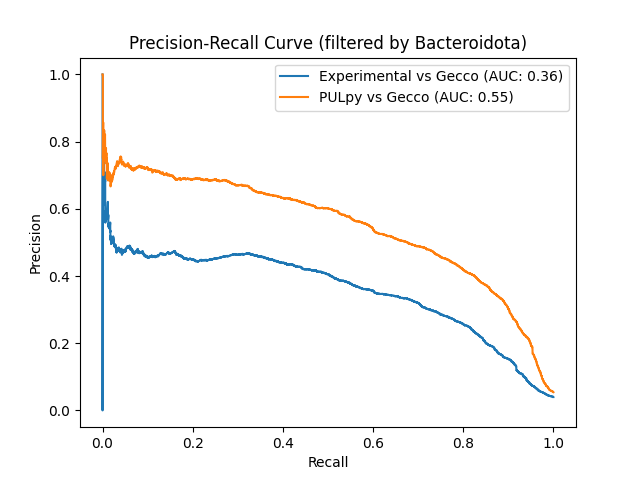
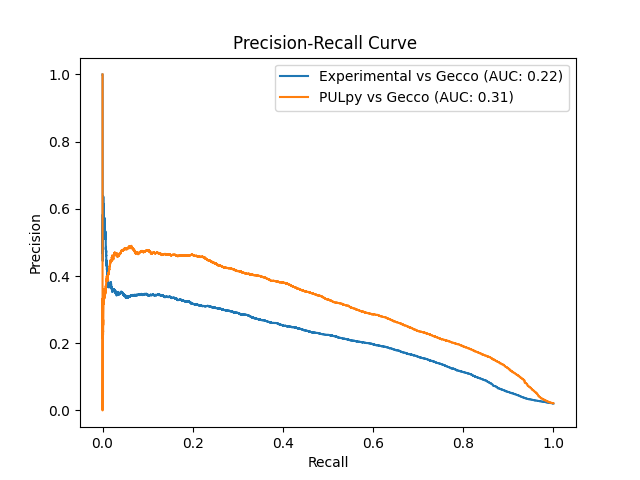
adapt evaluator to handle cross-val

diff --git a/src/scripts/gecco.py b/src/scripts/gecco.py
@@ -4,6 +4,7 @@ import os
 from pathlib import Path
 import urllib.request
 import tempfile
+import argparse
 from utility_scripts import join_gene_and_PUL_table
 from sklearn.metrics import classification_report, confusion_matrix, precision_recall_fscore_support
 
@@ -60,6 +61,7 @@ class GECCOHandler:
         print(f"Starting prediction for genome {Path(genome_path).stem}...")
         # check output path
         if os.path.exists(output_path):
+            print(f"Predictions for genome {Path(genome_path).stem} already exist, skipping prediction.\n")
             return
 
         # gecco run --model model --hmm Pfam35.hmm.gz --genome genome.fa -o ./predictions/
@@ -70,6 +72,7 @@ class GECCOHandler:
     def _evaluate(self, predictions_path, fold, test_clusters):
         pred_clusters = []
         pred_genes = []
+        # collect all predicted clusters and genes from the predictions directory
         for output_dir in os.listdir(predictions_path):
             for output_file in os.listdir(os.path.join(predictions_path, output_dir)):
                 if output_file.endswith(".clusters.tsv"):
@@ -79,6 +82,7 @@ class GECCOHandler:
                     pred_path = os.path.join(predictions_path, output_dir, output_file)
                     pred_genes.append(polars.read_csv(pred_path, separator='\t'))
 
+        # concat both into single tables, remove version num from sequence_id
         pred_clusters = polars.concat(pred_clusters).with_columns(
             polars.col("sequence_id").map_elements(lambda x: x.split('.')[0]).alias("sequence_id")
         )
@@ -91,13 +95,15 @@ class GECCOHandler:
         print(f"Total predicted clusters: {pred_clusters.shape[0]}")
         print(f"Total test clusters: {test_clusters.shape[0]}")
 
-        # get all genes of test set
+        # get all genes in test set
         test_genes = (pred_genes.join(test_clusters, on="sequence_id", how="semi"))
-        # label test genes
+
+        # join genes with test clusters and predicted clusters
         cols = ["protein_id", "sequence_id", "cluster_id", "is_PUL", "start", "end"]
-        labeled_test_genes = join_gene_and_PUL_table(test_genes, test_clusters).select(cols)
+        labeled_test_genes = join_gene_and_PUL_table(test_genes, test_clusters).select(cols) 
         labeled_prediction_genes = join_gene_and_PUL_table(test_genes, pred_clusters).select(cols)
-        # join predicted clusters with test clusters
+
+        # join gene tables of predicted clusters with test clusters
         labeled_table = (
             labeled_test_genes
             .join(labeled_prediction_genes, on="protein_id", how="full", suffix="_pred")
@@ -105,7 +111,7 @@ class GECCOHandler:
                 polars.when(polars.col("is_PUL").is_null()).then(False).otherwise(polars.col("is_PUL")).alias("is_PUL"),
                 polars.when(polars.col("is_PUL_pred").is_null()).then(False).otherwise(polars.col("is_PUL_pred")).alias("is_PUL_pred"),
             )
-            .join(test_genes.select("protein_id", "average_p"), on="protein_id", how="left")
+            .join(test_genes.select("protein_id", "average_p"), on="protein_id", how="left") # add predicted probability for each gene (for PR curve)
             .sort("protein_id")
             .sort("sequence_id")
         )
@@ -122,7 +128,8 @@ class GECCOHandler:
         return temp_file
 
 
-    def run_fold(self, train_clusters, test_clusters, fold):
+    def run_fold(self, fold):
+        train_clusters, test_clusters = self.get_training_data(fold)
         model_path = f"{self.output_dir}/model_{fold}"
         # filter gene and feature tables to only include genes in training set
         train_genes = polars.read_csv(train_clusters, separator='\t').select("sequence_id").unique()
@@ -146,28 +153,37 @@ class GECCOHandler:
         # get the training data for this fold, which is all clusters that are not in the test set
         test_clusters = f"{self.clusters_dir}/test_fold_{fold}.tsv"
         train_clusters = f"{self.clusters_dir}/train_fold_{fold}.tsv"
-
-        # adapt train clusters to fit gecco input format
-        train_clusters_df = polars.read_csv(train_clusters, separator='\t').select("sequence_id", "cluster_id", "start", "end")
         return train_clusters, test_clusters
 
 
     def run_cross_validation(self, k):
         for fold in range(k):
             print(f"Running fold {fold}...")
-            train_clusters, test_clusters = self.get_training_data(fold)
-            results = self.run_fold(train_clusters, test_clusters, fold)
+            results = self.run_fold(fold)
 
 
 def main():
+    parser = argparse.ArgumentParser(description="Run GECCO cross-validation")
+    parser.add_argument("--genes", type=str, default="src/data/genecat_output/genome.genes.parquet", help="Path to genes table")
+    parser.add_argument("--features", type=str, default="src/data/genecat_output/genome.features.parquet", help="Path to features table")
+    parser.add_argument("--clusters_dir", type=str, default="src/data/splits", help="Directory containing train/test cluster splits")
+    parser.add_argument("--output_dir", type=str, default="src/data/results/gecco", help="Directory to save results")
+    parser.add_argument("--hmms", type=str, default="src/data/hmms/Pfam35.hmm.gz", help="Path to HMM file (will be downloaded if not found)")
+    parser.add_argument("-k", type=int, default=5, help="Number of folds for cross-validation")
+    parser.add_argument("--run_fold", type=int, help="Run a specific fold instead of cross-validation")
+    args = parser.parse_args()
+
     handler = GECCOHandler(
-        genes="src/data/genecat_output/genome.genes.parquet",
-        features="src/data/genecat_output/genome.features.parquet",
-        clusters_dir="src/data/splits",
-        output_dir="src/data/results/gecco",
-        hmms="src/data/hmms/Pfam35.hmm.gz" # make sure hmms are downloaded and path is correct
+        genes=args.genes,
+        features=args.features,
+        clusters_dir=args.clusters_dir,
+        output_dir=args.output_dir,
+        hmms=args.hmms
     )
-    handler.run_cross_validation(k=5)
+    if args.run_fold is not None:
+        handler.run_fold(args.run_fold)
+    else:
+        handler.run_cross_validation(k=args.k)
 
 
 if __name__ == "__main__":

diff --git a/src/scripts/evaluate_predictions.py b/src/scripts/evaluate_predictions.py
@@ -7,13 +7,23 @@ import seaborn as sns
 from utility_scripts import join_gene_and_PUL_table
 
 class PredictionEvaluator:
-    def __init__(self, labeled_results_path, predicted_genes_path, clusters_table_path, pulpy_annotations_path):
-        self.predicted_genes = polars.read_csv(predicted_genes_path, separator='\t')
+    """
+    Evaluator class for evaluating the predictions of GECCO against experimental data and PULpy annotations.
+    Currently aggregates predictions across all folds.
+    """
+
+    def __init__(self, labeled_results_path, clusters_table_path, pulpy_annotations_path):
+        labeled_results_list = []
+        for i in range(5):
+            labeled_results = polars.read_csv(f"{labeled_results_path}_{i}.tsv", separator='\t')
+            labeled_results_list.append(labeled_results)
+
+        self.labeled_results = polars.concat(labeled_results_list)
         self.clusters_table = polars.read_csv(clusters_table_path, separator='\t', infer_schema_length=600)
-        self.labeled_results = polars.read_csv(labeled_results_path, separator='\t')
         self.get_pulpy_annotations(pulpy_annotations_path)
         self.set_evaluation_data()
         self.filter = None
+
 
     def set_evaluation_data(self):
         self.true = self.labeled_results.select(polars.col("is_PUL")).fill_null(False).to_series().to_list()
@@ -29,7 +39,7 @@ class PredictionEvaluator:
             .rename({"genome": "sequence_id", "pulid": "cluster_id"})
         )
         pulpy_annotations = (
-            join_gene_and_PUL_table(self.predicted_genes, pulpy_annotations)
+            join_gene_and_PUL_table(self.labeled_results, pulpy_annotations)
             .select("protein_id", "is_PUL", "cluster_id").rename({"is_PUL": "is_PUL_pulpy", "cluster_id": "cluster_id_pulpy"})
         )
         self.labeled_results = self.labeled_results.join(
@@ -51,7 +61,7 @@ class PredictionEvaluator:
         )
         self.set_evaluation_data()
         self.filter = phylum
-        
+
     
     def confusion_matrix(self):
         cm = confusion_matrix(self.true, self.pred)
@@ -85,7 +95,7 @@ class PredictionEvaluator:
         plt.ylabel("Precision")
         plt.legend(loc="upper right")
         plt.title(f"Precision-Recall Curve {'(filtered by ' + self.filter + ')' if self.filter else ''}")
-        plt.savefig("src/data/plots/pr_curve.png")
+        plt.savefig(f"src/data/plots/pr_curve{self.filter}.png")
         plt.clf()
 
 
@@ -114,7 +124,7 @@ class PredictionEvaluator:
         plt.ylabel('Density (KDE)')
         plt.title(f'PUL Lengths distributions {"(filtered by " + self.filter + ")" if self.filter else ""}') 
         plt.legend()
-        plt.savefig("src/data/plots/pul_length_kde.png")
+        plt.savefig(f"src/data/plots/pul_length_kde{self.filter}.png")
         plt.clf()
 
     
@@ -147,18 +157,20 @@ class PredictionEvaluator:
         plt.tight_layout()
         plt.savefig(f"src/data/plots/predictions_{sequence_id}.png")
         plt.clf()
-        
+
 
 
 if __name__ == "__main__":
+    results_path = "src/data/results/gecco"
+    pulpy_annotations_path = "src/data/results/pulpy_annotations.tsv"
+
     evaluator = PredictionEvaluator(
-        "src/data/results/gecco/labeled_results_0.tsv",
-        "src/data/results/gecco/predicted_genes_0.tsv",
-        "src/data/splits/test_fold_0.tsv",
-        "src/data/results/pulpy_annotations.tsv"
+        f"{results_path}/labeled_results",
+        "src/data/results/cblaster_results.tsv",
+        f"{pulpy_annotations_path}"
     )
-    #evaluator.filter_phylum("Bacteroidota")
-    # evaluator.lengths_histogram()
-    # evaluator.precision_recall_curve()
-    # evaluator.evaluate()
-    evaluator.visualize_predictions("FP476056")
+    evaluator.filter_phylum("Bacteroidota")
+    evaluator.lengths_histogram()
+    evaluator.precision_recall_curve()
+    evaluator.evaluate()
+    #evaluator.visualize_predictions("FP476056")

diff --git a/src/scripts/utility_scripts.py b/src/scripts/utility_scripts.py
@@ -108,12 +108,11 @@ def join_gene_and_PUL_table(gene_table: polars.DataFrame, cluster_table: polars.
             polars.col("sequence_id").first().alias("sequence_id"),
             polars.col("start").first().alias("start"),
             polars.col("end").first().alias("end"),
-            polars.col("strand").first().alias("strand"),
             polars.col("cluster_id").drop_nulls().first().alias("cluster_id")
         )
         .sort(by=["sequence_id", "start", "end"])
         .with_row_index(name="gene_id", offset=0)  # important
-        .select(["sequence_id", "protein_id", "start", "end", "strand", "is_PUL", "cluster_id"])
+        .select(["sequence_id", "protein_id", "start", "end", "is_PUL", "cluster_id"])
     )
 
     return labled_gene_table
